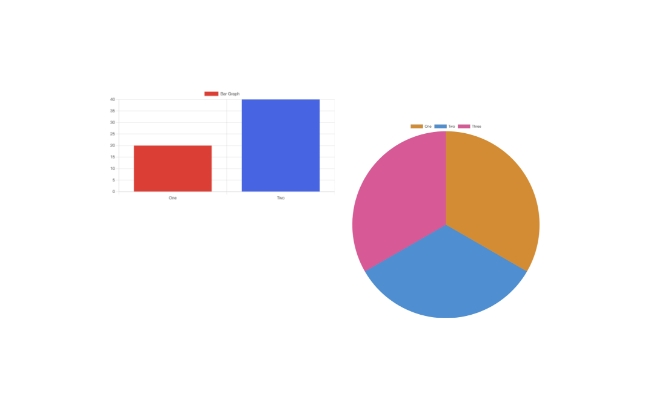
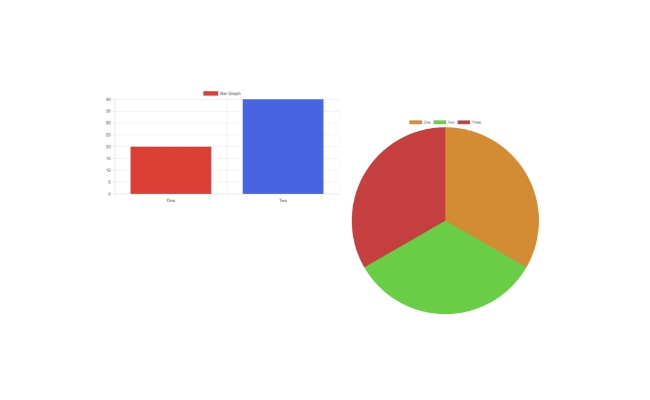
Updated chart colors and video

diff --git a/index.html b/index.html
@@ -255,7 +255,7 @@
   <div class="wrapper">
     <img loading="eager" src="images/modal/charts-1.jpg" title="Chart.js Blocks" alt="Chart.js Blocks" />
     <div class="wrap-iframe">
-      <iframe loading="lazy" id="video-charts" src="https://www.youtube.com/embed/V89YDP4vwgE" frameborder="0" allow="accelerometer; autoplay; encrypted-media; gyroscope; picture-in-picture" allowfullscreen></iframe>
+      <iframe loading="lazy" id="video-charts" src="https://www.youtube.com/embed/7cK_5oInexI" frameborder="0" allow="accelerometer; autoplay; encrypted-media; gyroscope; picture-in-picture" allowfullscreen></iframe>
     </div><!--wrap-iframe-->
   </div><!--wrapper-->
   <div class="process">
